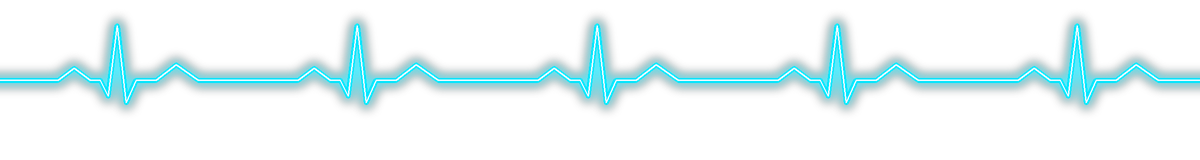
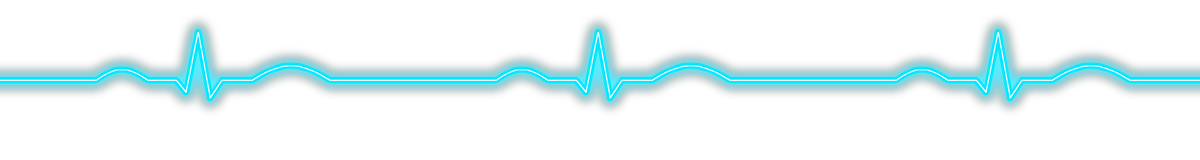
Voice bar: Sentinel back to the segment meter; Nova EKG smoothed
Per feedback: revert Sentinel to the original segment scanner; keep Nova's EKG but
smooth it — thicker rounded line, higher supersample (ss 3), fewer wider beats
(3/strip) with smooth half-sine P/T waves + a crisp QRS. Subtler amplitude.
tsc clean, build 796 modules, installed on device.

Claude-Session: https://claude.ai/code/session_01ALH7GiyeYQHHMVixP8QqGB

Changed region(s): [[0.0, 0.0938, 1.0, 0.6875]]

diff --git a/src/VoiceBar.tsx b/src/VoiceBar.tsx
@@ -2,66 +2,119 @@ import React, { useEffect, useRef } from "react";
 import { View, Animated, StyleSheet, Easing, Image } from "react-native";
 import { color, radius, space } from "./design/tokens";
 
-// KITT / HAL voice meter — the AI's "face" (no avatar), now TWO distinct instruments:
-//   Sentinel → an angular 4-point wave in a rectangular scope (amber, sharp, quicker)
-//   Nova     → a gentle EKG heartbeat in a round (pill) scope (cyan, soft, slower)
-// Each is a seamless tileable strip scrolled continuously (fluid, no stepping). Amplitude
-// and scroll speed react to voice state; fully static under reduced motion.
+// KITT / HAL voice meter — the AI's "face" (no avatar). Two instruments by persona:
+//   Sentinel → the segment scanner (amber, a tight bright beam sweeps) — the original.
+//   Nova     → a smooth EKG heartbeat in a round scope (cyan), scrolling continuously.
+// Persona-aware, reacts to voice, static under reduced motion. Compact.
 export type VoiceBarState = "idle" | "listening" | "thinking" | "speaking" | "error";
 export type Persona = "sentinel" | "nova";
 
-const WAVE = require("../assets/ui/wave4_amber.png");  // Sentinel
-const EKG = require("../assets/ui/ekg_cyan.png");      // Nova
+const EKG = require("../assets/ui/ekg_cyan.png");
 const COPY_W = 520; // rendered width of one strip copy (two scroll seamlessly)
+const N = 22;
 
-export default function VoiceBar({ state, persona = "sentinel", reducedMotion = false, height = 84 }: {
-  state: VoiceBarState;
-  persona?: Persona;
-  reducedMotion?: boolean;
-  height?: number;
-}) {
-  const scroll = useRef(new Animated.Value(0)).current;  // 0..1 continuous scroll
-  const amp = useRef(new Animated.Value(0.5)).current;    // waveform amplitude (scaleY)
+export default function VoiceBar(props: { state: VoiceBarState; persona?: Persona; reducedMotion?: boolean; height?: number }) {
+  return props.persona === "nova" ? <EkgBar {...props} /> : <SegmentBar {...props} />;
+}
 
-  const nova = persona === "nova";
-  const strip = nova ? EKG : WAVE;
-  const col = state === "error" ? color.danger : nova ? color.cyan : color.amber;
+// ---- Nova: smooth EKG heartbeat, round scope, continuous scroll ----
+function EkgBar({ state, reducedMotion = false, height = 84 }: { state: VoiceBarState; reducedMotion?: boolean; height?: number }) {
+  const scroll = useRef(new Animated.Value(0)).current;
+  const amp = useRef(new Animated.Value(0.6)).current;
   const voiceActive = state === "listening" || state === "thinking" || state === "speaking";
-  const round = nova;
+  const col = color.cyan;
 
-  // Continuous horizontal scroll — linear loop, speed by state (Sentinel quicker).
   useEffect(() => {
     scroll.setValue(0);
     if (reducedMotion) return;
-    const dur = voiceActive ? (nova ? 2600 : 2000) : (nova ? 6200 : 5000);
+    const dur = voiceActive ? 2600 : 6200;
     const loop = Animated.loop(Animated.timing(scroll, { toValue: 1, duration: dur, easing: Easing.linear, useNativeDriver: true }));
     loop.start();
     return () => loop.stop();
     // eslint-disable-next-line react-hooks/exhaustive-deps
-  }, [persona, state, reducedMotion]);
+  }, [state, reducedMotion]);
 
-  // Amplitude: rests low, rises when the voice is active.
   useEffect(() => {
-    Animated.timing(amp, { toValue: voiceActive ? 1 : 0.5, duration: 320, easing: Easing.out(Easing.quad), useNativeDriver: true }).start();
+    Animated.timing(amp, { toValue: voiceActive ? 1 : 0.6, duration: 340, easing: Easing.out(Easing.quad), useNativeDriver: true }).start();
     // eslint-disable-next-line react-hooks/exhaustive-deps
   }, [state]);
 
   const inner = height - 16;
   const translateX = scroll.interpolate({ inputRange: [0, 1], outputRange: [0, -COPY_W] });
-  const scaleY = amp.interpolate({ inputRange: [0, 1], outputRange: [0.45, 1] });
+  const scaleY = amp.interpolate({ inputRange: [0, 1], outputRange: [0.72, 1] });
   const glow = voiceActive && !reducedMotion;
 
   return (
     <View style={[s.wrap, { height }]}>
-      <View style={[s.scope, { borderColor: col + "66", borderRadius: round ? height / 2 : 7 }]}>
-        {/* soft bloom behind the trace */}
-        <View pointerEvents="none" style={[s.bloom, { backgroundColor: col, opacity: glow ? 0.16 : 0.07 }]} />
-        {/* scrolling waveform: two seamless copies */}
+      <View style={[s.scope, { borderColor: col + "66", borderRadius: height / 2 }]}>
+        <View pointerEvents="none" style={[s.scopeBloom, { backgroundColor: col, opacity: glow ? 0.16 : 0.07 }]} />
         <Animated.View style={{ flexDirection: "row", height: inner, transform: [{ translateX }, { scaleY }] }}>
-          <Image source={strip} resizeMode="stretch" fadeDuration={0} style={{ width: COPY_W, height: inner }} />
-          <Image source={strip} resizeMode="stretch" fadeDuration={0} style={{ width: COPY_W, height: inner }} />
+          <Image source={EKG} resizeMode="stretch" fadeDuration={0} style={{ width: COPY_W, height: inner }} />
+          <Image source={EKG} resizeMode="stretch" fadeDuration={0} style={{ width: COPY_W, height: inner }} />
         </Animated.View>
-        {/* glass gloss across the top */}
+        <View pointerEvents="none" style={s.gloss} />
+      </View>
+    </View>
+  );
+}
+
+// ---- Sentinel (and error/default): the original segment scanner ----
+function SegmentBar({ state, persona = "sentinel", reducedMotion = false, height = 84 }: { state: VoiceBarState; persona?: Persona; reducedMotion?: boolean; height?: number }) {
+  const anim = useRef(new Animated.Value(0.5)).current;
+  const col = state === "error" ? color.danger : state === "listening" ? color.cyan : color.amber;
+  const idle = state === "idle";
+  const bw = 0.12;
+  const baseIdle = 0.2;
+  const segW = 5, cap = 1, gapW = 3;
+  const sweep = state === "listening" || state === "thinking" || idle;
+  const voiceActive = state === "listening" || state === "thinking" || state === "speaking";
+  const breathe = state === "speaking";
+  const animated = !reducedMotion && (sweep || breathe);
+
+  useEffect(() => {
+    anim.stopAnimation();
+    if (!animated) { Animated.timing(anim, { toValue: 0.5, duration: 220, useNativeDriver: false }).start(); return; }
+    const dur = voiceActive ? (sweep ? 600 : 540) : 1400;
+    const ease = sweep ? Easing.inOut(Easing.quad) : Easing.inOut(Easing.sin);
+    const loop = Animated.loop(Animated.sequence([
+      Animated.timing(anim, { toValue: 1, duration: dur, easing: ease, useNativeDriver: false }),
+      Animated.timing(anim, { toValue: 0, duration: dur, easing: ease, useNativeDriver: false }),
+    ]));
+    loop.start();
+    return () => loop.stop();
+    // eslint-disable-next-line react-hooks/exhaustive-deps
+  }, [state, persona, reducedMotion]);
+
+  const glow = voiceActive && !reducedMotion;
+  const segMax = height - 34;
+
+  return (
+    <View style={[s.wrap, { height }]}>
+      <View style={[s.housing, { borderColor: col + "4D" }]}>
+        <View pointerEvents="none" style={[s.bloom, { backgroundColor: col, opacity: glow ? 0.15 : idle ? 0.06 : 0.1 }]} />
+        <View style={[s.segs, { gap: gapW }]}>
+          {[...Array(N)].map((_, i) => {
+            const x = i / (N - 1);
+            const hMul = 0.42 + 0.58 * Math.sin(x * Math.PI);
+            let opacity: Animated.Value | Animated.AnimatedInterpolation<number> | number;
+            let coreOp: Animated.AnimatedInterpolation<number> | number = 0;
+            if (!animated) {
+              opacity = idle ? baseIdle : 0.55;
+            } else if (sweep) {
+              opacity = anim.interpolate({ inputRange: [x - bw, x, x + bw], outputRange: [idle ? 0.08 : 0.1, idle ? 0.62 : 1, idle ? 0.08 : 0.1], extrapolate: "clamp" });
+              coreOp = anim.interpolate({ inputRange: [x - 0.05, x, x + 0.05], outputRange: [0, idle ? 0.5 : 0.95, 0], extrapolate: "clamp" });
+            } else {
+              opacity = anim.interpolate({ inputRange: [0, 1], outputRange: [idle ? 0.2 : 0.32, idle ? 0.52 : 1] });
+              coreOp = anim.interpolate({ inputRange: [0, 1], outputRange: [0, idle ? 0.25 : 0.7 * hMul] });
+            }
+            return (
+              <View key={i} style={[s.segWrap, { height: segMax, width: segW }]}>
+                <Animated.View style={[s.seg, { width: segW, borderRadius: cap, height: segMax * hMul, backgroundColor: col, opacity, shadowColor: col, shadowOpacity: glow ? 0.8 : 0, shadowRadius: glow ? 7 : 0, elevation: glow ? 4 : 0 }]} />
+                <Animated.View pointerEvents="none" style={[s.core, { height: segMax * hMul * 0.5, opacity: coreOp }]} />
+              </View>
+            );
+          })}
+        </View>
         <View pointerEvents="none" style={s.gloss} />
       </View>
     </View>
@@ -70,11 +123,15 @@ export default function VoiceBar({ state, persona = "sentinel", reducedMotion = 
 
 const s = StyleSheet.create({
   wrap: { alignItems: "center", justifyContent: "center", width: "100%" },
-  scope: {
-    width: "100%", maxWidth: 420, flex: 1,
-    backgroundColor: "#070A0F", borderWidth: 1, overflow: "hidden",
-    alignItems: "center", justifyContent: "center",
-  },
-  bloom: { position: "absolute", left: "6%", right: "6%", top: "22%", bottom: "22%", borderRadius: 999 },
+  // Sentinel segment housing
+  housing: { width: "100%", maxWidth: 420, flex: 1, flexDirection: "row", alignItems: "center", justifyContent: "center", paddingVertical: space.md, paddingHorizontal: space.lg, borderRadius: radius.lg, backgroundColor: "#070A0F", borderWidth: 1, overflow: "hidden" },
+  bloom: { position: "absolute", left: "12%", right: "12%", top: "26%", bottom: "26%", borderRadius: 999 },
+  segs: { flexDirection: "row", alignItems: "center", justifyContent: "center", gap: 4 },
+  segWrap: { width: 6, alignItems: "center", justifyContent: "center" },
+  seg: { width: 6, borderRadius: 3, shadowOffset: { width: 0, height: 0 } },
+  core: { position: "absolute", width: 2, borderRadius: 0, backgroundColor: "#FFFFFF" },
+  // Nova EKG scope
+  scope: { width: "100%", maxWidth: 420, flex: 1, backgroundColor: "#070A0F", borderWidth: 1, overflow: "hidden", alignItems: "center", justifyContent: "center" },
+  scopeBloom: { position: "absolute", left: "6%", right: "6%", top: "22%", bottom: "22%", borderRadius: 999 },
   gloss: { position: "absolute", left: 12, right: 12, top: 6, height: 10, borderRadius: 8, backgroundColor: "rgba(255,255,255,0.05)" },
 });

diff --git a/tools/art/gen_voicebars.py b/tools/art/gen_voicebars.py
@@ -24,7 +24,7 @@ CYAN = (0, 229, 255)
 
 
 def render(points, rgb, core=True, gw=11, lw=4.5):
-    ss = 2
+    ss = 3   # higher supersample -> smoother line when stretched in-app
     w, h = W * ss, H * ss
     pts = [(x * ss, y * ss) for (x, y) in points]
     im = Image.new("RGBA", (w, h), (0, 0, 0, 0))
@@ -57,26 +57,31 @@ def wave4():
     return render(pts, AMBER)
 
 
+def _bump(x0, w, depth, n=10):
+    # a smooth rounded half-sine bump (depth<0 = upward on screen)
+    return [(x0 + (k / n) * w, MID + depth * math.sin(math.pi * (k / n))) for k in range(n + 1)]
+
+
 def ekg():
-    # Gentle heartbeat: flat baseline with a soft P–QRS–T complex each period.
-    period = 240                         # 5 beats across the strip (1200 = 5*240, tileable)
-    A = H * 0.34
+    # Gentle heartbeat: smooth rounded P and T waves, a crisp QRS spike, flat baseline.
+    # Fewer, wider beats so the trace reads smooth (not cramped) when scrolled in-app.
+    period = 400                          # 3 beats across the strip (1200 = 3*400, tileable)
+    A = H * 0.30
     pts = []
     for b in range(W // period):
         x0 = b * period
-        seg = [
-            (x0 + 0, MID), (x0 + 58, MID),
-            (x0 + 74, MID - A * 0.22),    # P bump
-            (x0 + 90, MID), (x0 + 100, MID),
-            (x0 + 108, MID + A * 0.30),   # Q dip
-            (x0 + 117, MID - A),          # R spike
-            (x0 + 126, MID + A * 0.42),   # S dip
-            (x0 + 136, MID), (x0 + 156, MID),
-            (x0 + 176, MID - A * 0.28),   # T bump
-            (x0 + 198, MID), (x0 + period, MID),
-        ]
+        seg = [(x0, MID), (x0 + 96, MID)]            # flat
+        seg += _bump(x0 + 96, 52, -A * 0.22)         # P (smooth)
+        seg += [(x0 + 156, MID), (x0 + 176, MID)]    # flat PR
+        seg += [(x0 + 186, MID + A * 0.26),          # Q dip (crisp)
+                (x0 + 198, MID - A),                 # R spike (crisp)
+                (x0 + 210, MID + A * 0.38),          # S dip (crisp)
+                (x0 + 222, MID)]                     # back to baseline
+        seg += [(x0 + 248, MID)]                     # flat ST
+        seg += _bump(x0 + 252, 78, -A * 0.30)        # T (smooth, wider)
+        seg += [(x0 + 336, MID), (x0 + period, MID)] # flat to the seam
         pts.extend(seg)
-    return render(pts, CYAN, gw=12, lw=5)
+    return render(pts, CYAN, gw=16, lw=6.5)
 
 
 def main():
